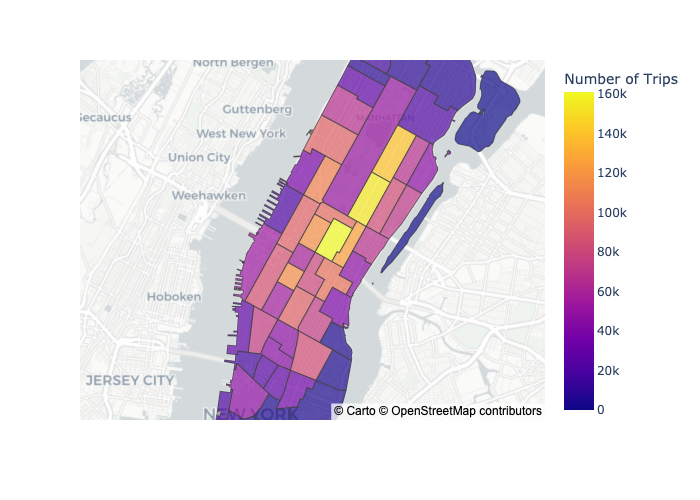
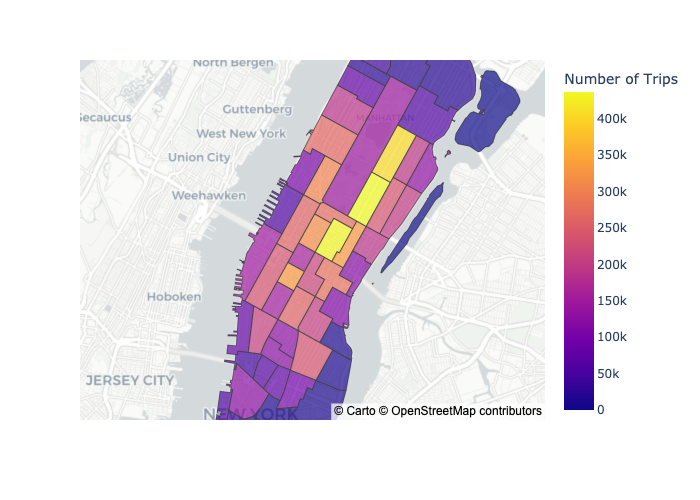
Added code for Lesson 8

diff --git a/dagster_university/assets/metrics.py b/dagster_university/assets/metrics.py
@@ -5,7 +5,7 @@ import plotly.io as pio
 import geopandas as gpd
 import pandas as pd
 from datetime import datetime, timedelta
-
+from ..partitions import weekly_partition
 from dagster_duckdb import DuckDBResource
 import os
 
@@ -60,46 +60,47 @@ def manhattan_map():
 
 
 @asset(
-		deps=["taxi_trips"]
+    deps=["taxi_trips"],
+    partitions_def=weekly_partition
 )
-def trips_by_week(database: DuckDBResource):
+def trips_by_week(context, database: DuckDBResource):
+    """
+        The number of trips per week, aggregated by week.
+    """
 
-    current_date = datetime.strptime("2023-03-01", constants.DATE_FORMAT)
-    end_date = datetime.strptime("2023-04-01", constants.DATE_FORMAT)
+    period_to_fetch = context.asset_partition_key_for_output()
 
-    result = pd.DataFrame()
+    # get all trips for the week
+    query = f"""
+        select vendor_id, total_amount, trip_distance, passenger_count
+        from trips
+        where pickup_datetime >= '{period_to_fetch}'
+            and pickup_datetime < '{period_to_fetch}'::date + interval '1 week'
+    """
 
-    while current_date < end_date:
-        current_date_str = current_date.strftime(constants.DATE_FORMAT)
-        query = f"""
-            select
-                vendor_id, total_amount, trip_distance, passenger_count
-            from trips
-            where date_trunc('week', pickup_datetime) = date_trunc('week', '{current_date_str}'::date)
-        """
+    with database.get_connection() as conn:
+        data_for_month = conn.execute(query).fetch_df()
 
-        with database.get_connection() as conn:
-            data_for_week = conn.execute(query).fetch_df()
-
-        aggregate = data_for_week.agg({
-            "vendor_id": "count",
-            "total_amount": "sum",
-            "trip_distance": "sum",
-            "passenger_count": "sum"
-        }).rename({"vendor_id": "num_trips"}).to_frame().T # type: ignore
-
-        aggregate["period"] = current_date
-
-        result = pd.concat([result, aggregate])
-
-        current_date += timedelta(days=7)
+    aggregate = data_for_month.agg({
+        "vendor_id": "count",
+        "total_amount": "sum",
+        "trip_distance": "sum",
+        "passenger_count": "sum"
+    }).rename({"vendor_id": "num_trips"}).to_frame().T # type: ignore
 
     # clean up the formatting of the dataframe
-    result['num_trips'] = result['num_trips'].astype(int)
-    result['passenger_count'] = result['passenger_count'].astype(int)
-    result['total_amount'] = result['total_amount'].round(2).astype(float)
-    result['trip_distance'] = result['trip_distance'].round(2).astype(float)
-    result = result[["period", "num_trips", "total_amount", "trip_distance", "passenger_count"]]
-    result = result.sort_values(by="period")
+    aggregate["period"] = period_to_fetch
+    aggregate['num_trips'] = aggregate['num_trips'].astype(int)
+    aggregate['passenger_count'] = aggregate['passenger_count'].astype(int)
+    aggregate['total_amount'] = aggregate['total_amount'].round(2).astype(float)
+    aggregate['trip_distance'] = aggregate['trip_distance'].round(2).astype(float)
+    aggregate = aggregate[["period", "num_trips", "total_amount", "trip_distance", "passenger_count"]]
 
-    result.to_csv(constants.TRIPS_BY_WEEK_FILE_PATH, index=False)
+    try:
+        # If the file already exists, append to it, but replace the existing month's data
+        existing = pd.read_csv(constants.TRIPS_BY_WEEK_FILE_PATH)
+        existing = existing[existing["period"] != period_to_fetch]
+        existing = pd.concat([existing, aggregate]).sort_values(by="period")
+        existing.to_csv(constants.TRIPS_BY_WEEK_FILE_PATH, index=False)
+    except FileNotFoundError:
+        aggregate.to_csv(constants.TRIPS_BY_WEEK_FILE_PATH, index=False)

diff --git a/dagster_university/assets/trips.py b/dagster_university/assets/trips.py
@@ -1,14 +1,19 @@
 import requests
 from dagster_duckdb import DuckDBResource
 from . import constants
+from ..partitions import monthly_partition
 from dagster import asset
 
-@asset
-def taxi_trips_file():
+@asset(
+	partitions_def=monthly_partition
+)
+def taxi_trips_file(context):
     """
         The raw parquet files for the taxi trips dataset. Sourced from the NYC Open Data portal.
     """
-    month_to_fetch = '2023-03'
+    partition_date_str = context.asset_partition_key_for_output()
+    month_to_fetch = partition_date_str[:-3]
+    
     raw_trips = requests.get(
         f"https://d37ci6vzurychx.cloudfront.net/trip-data/yellow_tripdata_{month_to_fetch}.parquet"
     )
@@ -22,32 +27,40 @@ def taxi_zones_file():
 
     with open(constants.TAXI_ZONES_FILE_PATH, "wb") as output_file:
         output_file.write(raw_zones.content)
-
+        
 
 @asset(
-	deps=["taxi_trips_file"],
+  deps=["taxi_trips_file"],
+  partitions_def=monthly_partition,
 )
-def taxi_trips(database: DuckDBResource):
-	sql_query = """
-		create or replace table taxi_trips as (
-			select
-				VendorID as vendor_id,
-				PULocationID as pickup_zone_id,
-				DOLocationID as dropoff_zone_id,
-				RatecodeID as rate_code_id,
-				payment_type as payment_type,
-				tpep_dropoff_datetime as dropoff_datetime,
-				tpep_pickup_datetime as pickup_datetime,
-				trip_distance as trip_distance,
-				passenger_count as passenger_count,
-				total_amount as total_amount
-			from 'data/raw/taxi_trips_2023-03.parquet'
-		);
-	"""
+def taxi_trips(context, database: DuckDBResource):
+    """
+      The raw taxi trips dataset, loaded into a DuckDB database, partitioned by month.
+    """
 
-	with database.get_connection() as conn:
-		conn.execute(sql_query)
-            
+    partition_date_str = context.asset_partition_key_for_output()
+    month_to_fetch = partition_date_str[:-3]
+
+    query = f"""
+      create table if not exists trips (
+        vendor_id integer, pickup_zone_id integer, dropoff_zone_id integer,
+        rate_code_id double, payment_type integer, dropoff_datetime timestamp,
+        pickup_datetime timestamp, trip_distance double, passenger_count double,
+        total_amount double, partition_date varchar
+      );
+
+      delete from trips where partition_date = '{month_to_fetch}';
+
+      insert into trips
+      select
+        VendorID, PULocationID, DOLocationID, RatecodeID, payment_type, tpep_dropoff_datetime,
+        tpep_pickup_datetime, trip_distance, passenger_count, total_amount, '{month_to_fetch}' as partition_date
+      from '{constants.TAXI_TRIPS_TEMPLATE_FILE_PATH.format(month_to_fetch)}';
+    """
+
+    with database.get_connection() as conn:
+      conn.execute(query)            
+
 
 @asset(
 	deps=["taxi_zones_file"]

diff --git a/dagster_university/__init__.py b/dagster_university/__init__.py
@@ -1,15 +1,22 @@
-# fmt: off
 from dagster import Definitions, load_assets_from_modules
+
+from .assets import trips, metrics
 from .resources import database_resource
-from .assets import metrics, trips
+from .jobs import trip_update_job, weekly_update_job
+from .schedules import trip_update_schedule, weekly_update_schedule
+
 
 trip_assets = load_assets_from_modules([trips])
 metric_assets = load_assets_from_modules([metrics])
 
-defs = Definitions(
-    assets=[*trip_assets, *metric_assets],
-    resources={
-        "database": database_resource,
-    },
-)
+all_jobs = [trip_update_job, weekly_update_job]
+all_schedules = [trip_update_schedule, weekly_update_schedule]
 
+defs = Definitions(
+  assets=[*trip_assets, *metric_assets],
+  resources={
+      "database": database_resource,
+  },
+  jobs=all_jobs,
+  schedules=all_schedules,
+)

diff --git a/dagster_university/jobs/__init__.py b/dagster_university/jobs/__init__.py
@@ -1,3 +1,17 @@
-from dagster import AssetSelection
+from dagster import AssetSelection, define_asset_job
+from ..partitions import monthly_partition, weekly_partition
+
 
 trips_by_week = AssetSelection.keys("trips_by_week")
+
+trip_update_job = define_asset_job(
+    name="trip_update_job",
+    partitions_def=monthly_partition,
+    selection=AssetSelection.all() - trips_by_week
+)
+
+weekly_update_job = define_asset_job(
+    name = "weekly_update_job",
+    partitions_def=weekly_partition,
+    selection = trips_by_week,
+)

diff --git a/dagster_university/partitions/__init__.py b/dagster_university/partitions/__init__.py
@@ -1,0 +1,15 @@
+from dagster import MonthlyPartitionsDefinition, WeeklyPartitionsDefinition
+from ..assets import constants
+
+start_date = constants.START_DATE
+end_date = constants.END_DATE
+
+monthly_partition = MonthlyPartitionsDefinition(
+  start_date=start_date,
+  end_date=end_date
+)
+
+weekly_partition = WeeklyPartitionsDefinition(
+    start_date=start_date,
+    end_date=end_date
+)

diff --git a/dagster_university/schedules/__init__.py b/dagster_university/schedules/__init__.py
@@ -1,0 +1,12 @@
+from dagster import ScheduleDefinition
+from ..jobs import trip_update_job, weekly_update_job
+
+trip_update_schedule = ScheduleDefinition(
+    job=trip_update_job,
+    cron_schedule="0 0 5 * *", # every 5th of the month at midnight
+)
+
+weekly_update_schedule = ScheduleDefinition(
+    job=weekly_update_job,
+    cron_schedule="0 0 * * 1"
+)
